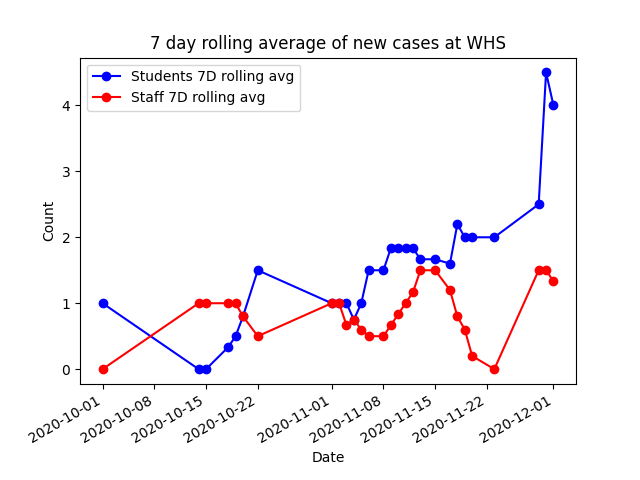
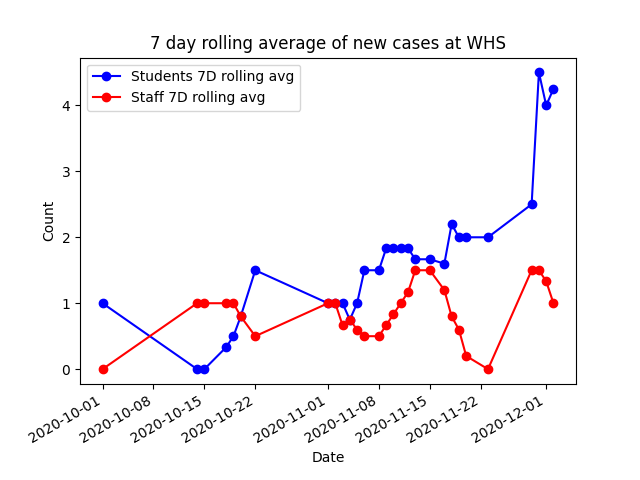
12/02/2020 data update and changed to csv format

diff --git a/whs_7d.py b/whs_7d.py
@@ -8,7 +8,7 @@ import datetime
 import plotly.graph_objects as go
 
 
-df = pd.read_csv("data.tsv", sep='\t', index_col="Date",parse_dates=["Date"])
+df = pd.read_csv("data.tsv", sep=',', index_col="Date",parse_dates=["Date"])
 df = df.sort_index()
 
 print(df)
